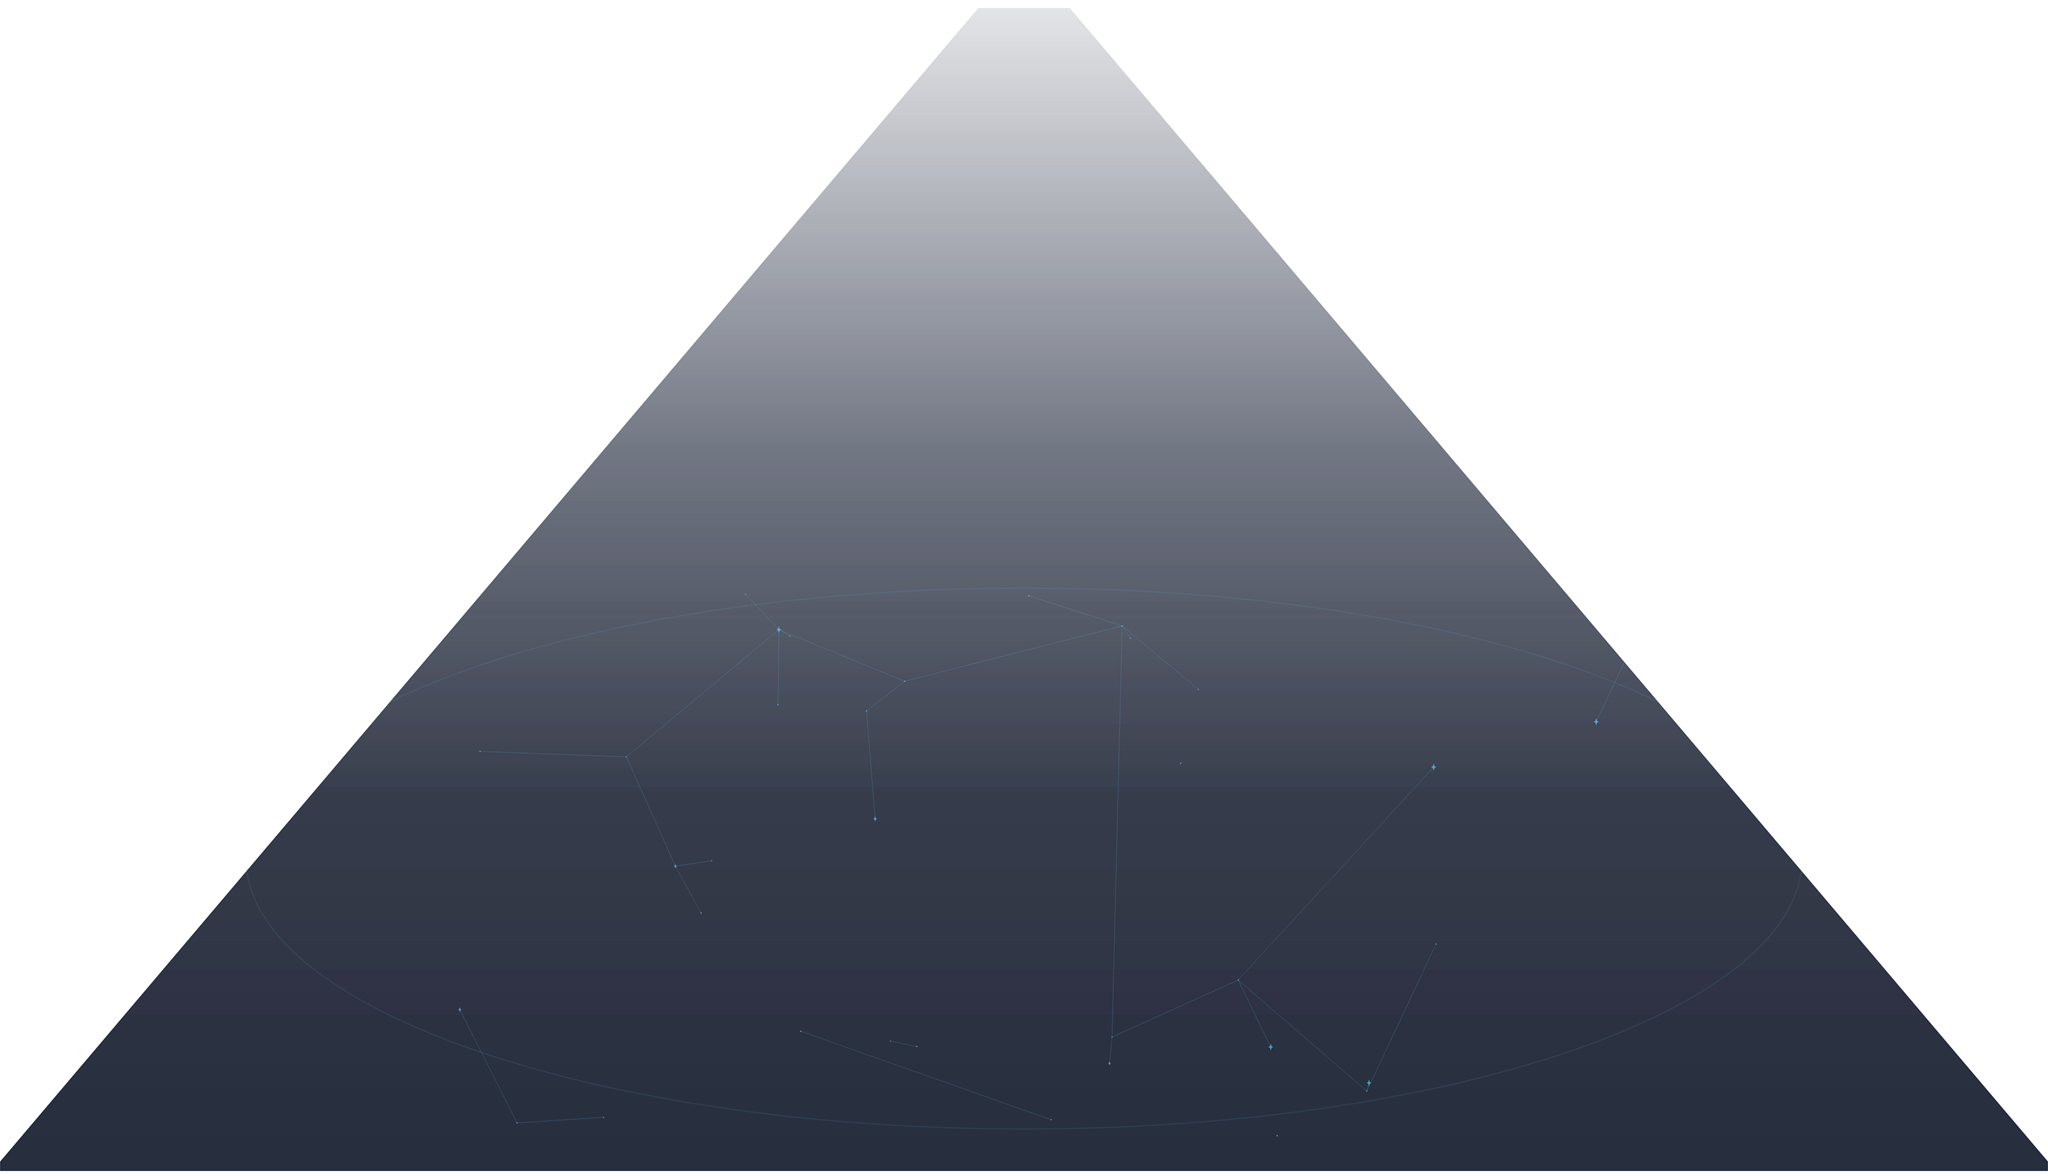
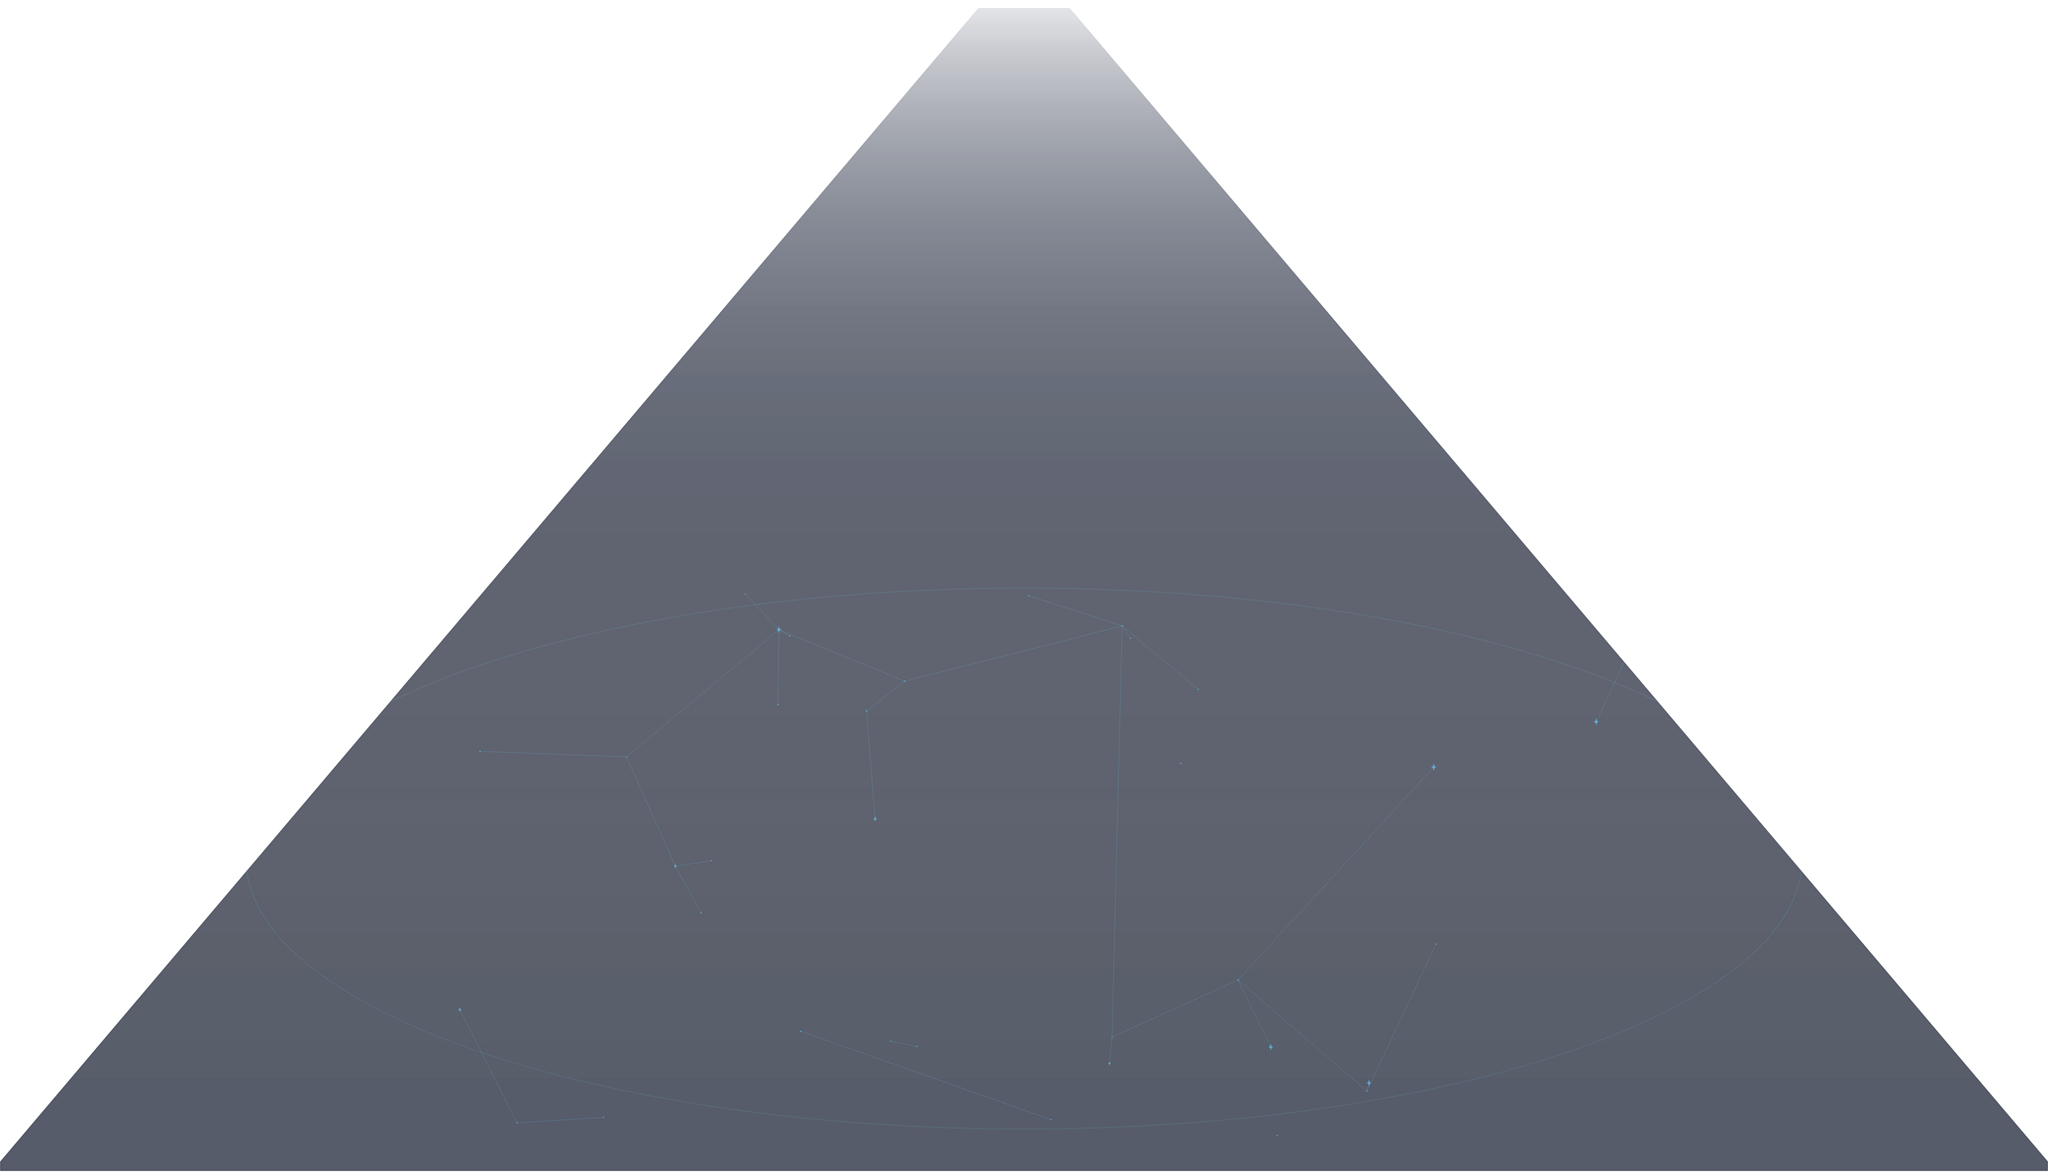
fix(art): hold lane_base opacity flat across its lower half
The floor eased up to 89% at the bottom, which read too dark. Opacity now
eases out of the horizon on a cubic curve, levels off at about 67% by 55%
of the way down, and drifts only to 70% at the bottom, so the judge-line
area keeps a steady depth with no visible kink where it flattens.

diff --git a/ArtSource/Tools/AstralHud.cs b/ArtSource/Tools/AstralHud.cs
@@ -485,11 +485,18 @@ public static class AstralHud {
         }
         if(n=="lane_base.png"){
             using(var p=LaneOutline()){
-                // Opacity rises quickly from the horizon so the floor reads where notes travel: about 60% at
-                // mid-screen and 85% at the judge line (row ~807, 69% down), instead of a thin linear ramp.
+                // Opacity eases out of the horizon (cubic, zero slope where it lands) and levels off at about
+                // 67% by 55% of the way down, so the lower half - judge line included - stays nearly flat,
+                // drifting only to about 70% at the bottom.
                 RectangleF r=p.GetBounds();Color floor=C("#101729");
+                const int stops=33;var colors=new Color[stops];var positions=new float[stops];
+                for(int i=0;i<stops;i++){
+                    float t=i/(float)(stops-1),s=Unit(t/.55f),rise=1-(1-s)*(1-s)*(1-s);
+                    float alpha=30+140*rise+8*Smooth((t-.55f)/.45f);
+                    colors[i]=A((int)Math.Round(alpha),Mix(Navy,floor,s));positions[i]=t;
+                }
                 using(var b=new LinearGradientBrush(P(0,r.Top),P(0,r.Bottom+.01f),Color.Black,Color.Black)){
-                    b.InterpolationColors=new ColorBlend{Colors=new[]{A(30,Navy),A(150,Mix(Navy,floor,.4f)),A(215,floor),A(230,floor)},Positions=new[]{0f,.38f,.69f,1f}};
+                    b.InterpolationColors=new ColorBlend{Colors=colors,Positions=positions};
                     g.FillPath(b,p);
                 }
                 var st=g.Save();g.SetClip(p);
